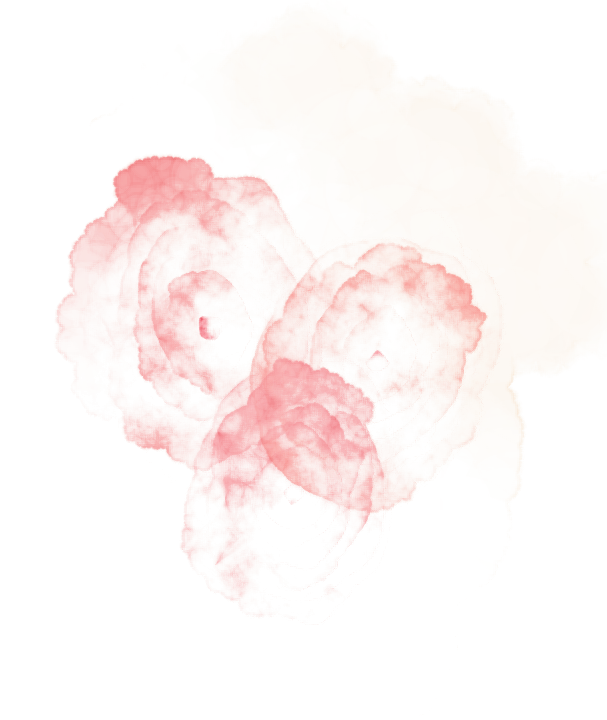
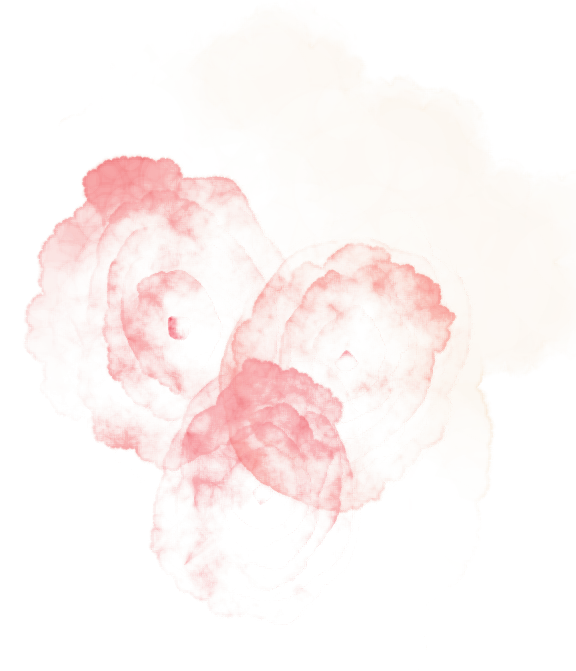
Pull the fingerprint stains under the title and the right edge of the text.
They were sitting in the page margins; position them relative to the centered column so they overlap the type.

diff --git a/index.html b/index.html
@@ -91,19 +91,19 @@
         }
 
         .paper-stain--left {
-            top: -6%;
-            left: -8%;
-            width: min(54vw, 580px);
-            height: min(64vw, 680px);
-            transform: rotate(-9deg);
+            top: -4%;
+            left: calc(50% - 520px);
+            width: min(52vw, 540px);
+            height: min(62vw, 640px);
+            transform: rotate(-8deg);
         }
 
         .paper-stain--right {
-            top: 10%;
-            right: -11%;
-            width: min(48vw, 520px);
-            height: min(56vw, 600px);
-            transform: rotate(18deg) scaleX(-1);
+            top: 6%;
+            right: calc(50% - 500px);
+            width: min(46vw, 500px);
+            height: min(54vw, 580px);
+            transform: rotate(16deg) scaleX(-1);
             opacity: 0.58;
         }
 
@@ -1079,19 +1079,19 @@
             }
 
             .paper-stain--left {
-                top: -8%;
-                left: -18%;
-                width: min(78vw, 340px);
-                height: min(90vw, 400px);
-                opacity: 0.55;
+                top: -10%;
+                left: -22%;
+                width: min(82vw, 360px);
+                height: min(94vw, 420px);
+                opacity: 0.52;
             }
 
             .paper-stain--right {
-                top: 22%;
-                right: -22%;
-                width: min(70vw, 300px);
-                height: min(82vw, 360px);
-                opacity: 0.45;
+                top: 28%;
+                right: -24%;
+                width: min(72vw, 320px);
+                height: min(84vw, 380px);
+                opacity: 0.42;
             }
         }
     </style>
